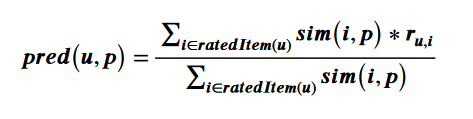
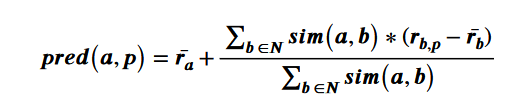
Change prediction function implementation

Changed region(s): [[0.0296, 0.1607, 0.9471, 0.8571]]

diff --git a/src/Tools/prediction.py b/src/Tools/prediction.py
@@ -18,24 +18,31 @@ def findBestMoviesForUser(similarUsersRatings : pd.DataFrame, targetUserRatings,
 
 
 
-
 def predictRating(similarUsersRating : pd.DataFrame, targetUserRatings : pd.Series, targetMovieId : int) -> float :
 
     #filter users who don't have rating on the target movie
     similarUsersRating = similarUsersRating[~similarUsersRating[targetMovieId].isna()]
 
     #no ratings on the target movie for the given similar users
-    if len(similarUsersRating) == 0:
+    if len(similarUsersRating) < 1:
         return None
+
+    targetUserRatingsAverage = targetUserRatings.mean()
 
     numerator = 0
     for userId, ratings in similarUsersRating.iterrows():
-        targetMovieRatingForUser = ratings.get(targetMovieId)
-        numerator += CalculateCorrelation(ratings, targetUserRatings) * targetMovieRatingForUser
+        targetMovieRating = ratings.get(targetMovieId)
+        IteratingUserRatingsAverage = ratings.mean()
+        correlationBetweenUserRatings = CalculateCorrelation(targetUserRatings,ratings)
+
+        RatingDifference = targetMovieRating - IteratingUserRatingsAverage
+        numerator += correlationBetweenUserRatings * RatingDifference
     
     denominator = 0
     for userId, ratings in similarUsersRating.iterrows():
-        denominator += CalculateCorrelation(ratings, targetUserRatings)
+        denominator += CalculateCorrelation(targetUserRatings, ratings)
 
-    return numerator/denominator
+    neighborBias = numerator/denominator
+
+    return targetUserRatingsAverage + neighborBias
 

diff --git a/src/assignment1.py b/src/assignment1.py
@@ -38,4 +38,3 @@ bestMoviesForTargetUser = findBestMoviesForUser(similarUsersRatings, targetUserR
 
 print(f'Most relevant movies to the user with Id {targetUserId}')
 print(bestMoviesForTargetUser)
-
